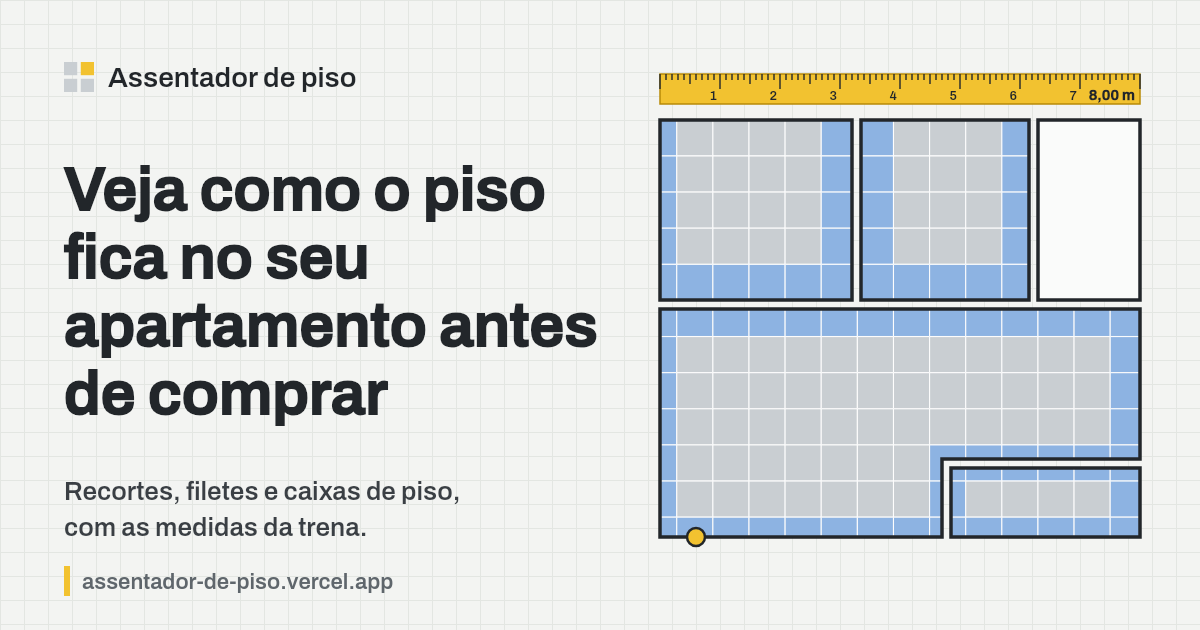
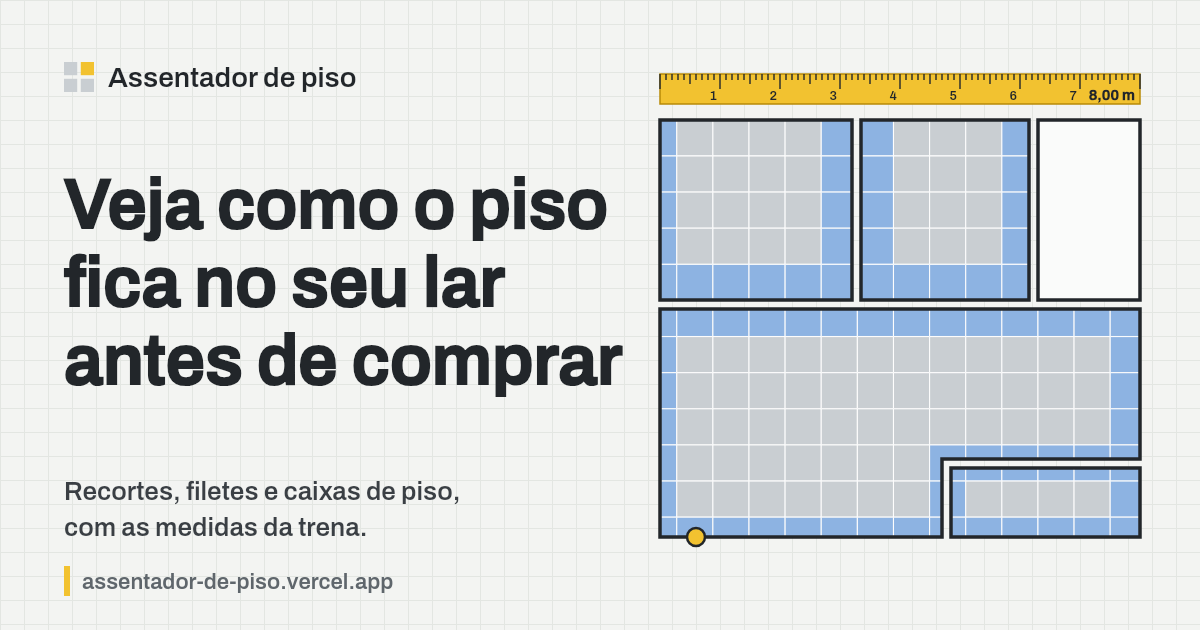
feat: textos falam em lar em vez de apartamento (tela inicial, exemplo, prévia do link)

Changed region(s): [[0.0308, 0.2714, 0.5242, 0.6937]]

diff --git a/index.html b/index.html
@@ -6,7 +6,7 @@
     <title>Assentador de Piso</title>
     <meta
       name="description"
-      content="Desenhe a planta com as medidas da trena ou envie o PDF e veja como o piso fica no seu apartamento: cada recorte, onde caem os filetes e quantas caixas comprar."
+      content="Desenhe a planta com as medidas da trena ou envie o PDF e veja como o piso fica no seu lar: cada recorte, onde caem os filetes e quantas caixas comprar."
     />
     <meta name="theme-color" content="#f3f4f2" />
     <link rel="icon" href="/favicon.svg" type="image/svg+xml" />
@@ -19,12 +19,12 @@
     <meta property="og:title" content="Assentador de piso" />
     <meta
       property="og:description"
-      content="Veja como o piso fica no seu apartamento antes de comprar: recortes, filetes e quantas caixas, com as medidas da trena."
+      content="Veja como o piso fica no seu lar antes de comprar: recortes, filetes e quantas caixas, com as medidas da trena."
     />
-    <meta property="og:image" content="https://assentador-de-piso.vercel.app/og.png" />
+    <meta property="og:image" content="https://assentador-de-piso.vercel.app/og.png?v=2" />
     <meta property="og:image:width" content="1200" />
     <meta property="og:image:height" content="630" />
-    <meta property="og:image:alt" content="Planta de um apartamento com o piso assentado e os recortes em azul" />
+    <meta property="og:image:alt" content="Planta de um lar com o piso assentado e os recortes em azul" />
     <meta name="twitter:card" content="summary_large_image" />
   </head>
   <body>

diff --git a/src/ui/StepUpload.tsx b/src/ui/StepUpload.tsx
@@ -79,10 +79,10 @@ export default function StepUpload({ onPlanReady }: Props) {
       }}
     >
       <section className="welcome-copy">
-        <h1 className="welcome-title">Veja como o piso fica no seu apartamento antes de comprar</h1>
+        <h1 className="welcome-title">Veja como o piso fica no seu lar antes de comprar</h1>
         <p className="welcome-lede">
-          Desenhe a planta com as medidas da trena ou envie o PDF do apartamento. O app mostra cada recorte, onde caem
-          os filetes e quantas caixas comprar, e deixa você montar do seu jeito.
+          Desenhe a planta do seu lar com as medidas da trena ou envie o PDF. O app mostra cada recorte, onde caem os
+          filetes e quantas caixas comprar, e deixa você montar do seu jeito.
         </p>
 
         {pdf ? (
@@ -106,7 +106,7 @@ export default function StepUpload({ onPlanReady }: Props) {
               </button>
             )}
             <button className={`btn btn-lg${hasPlan ? '' : ' btn-primary'}`} disabled={!!busy} onClick={() => void openSample()}>
-              Ver um apartamento de exemplo
+              Ver um lar de exemplo
             </button>
             <div className="welcome-pair">
               <button className="btn btn-lg" disabled={!!busy} onClick={startDrawing}>

diff --git a/src/ui/HeroPlan.tsx b/src/ui/HeroPlan.tsx
@@ -13,8 +13,8 @@ const LAY_MS = 1700;
 const TAPE = 46;
 
 /**
- * Apartamento de exemplo com o piso calculado pelo próprio app. As peças aparecem a partir da
- * porta de entrada, como numa obra; uma trena mede a largura do apartamento.
+ * Lar de exemplo com o piso calculado pelo próprio app. As peças aparecem a partir da porta de
+ * entrada, como numa obra; uma trena mede a largura da planta.
  */
 export default function HeroPlan() {
   const { project, rooms, result } = useMemo(() => {
@@ -34,7 +34,7 @@ export default function HeroPlan() {
 
   return (
     <figure className="hero-plan">
-      <svg viewBox={`${vb.x} ${vb.y} ${vb.w} ${vb.h}`} role="img" aria-label="Apartamento de exemplo com o piso assentado a partir da porta">
+      <svg viewBox={`${vb.x} ${vb.y} ${vb.w} ${vb.h}`} role="img" aria-label="Lar de exemplo com o piso assentado a partir da porta">
         <Tape x={b.x} y={b.y - TAPE - 14} w={b.w} />
         {project.rooms
           .filter((r) => !r.receivesTile)

diff --git a/scripts/make-og.ts b/scripts/make-og.ts
@@ -1,6 +1,6 @@
 /**
  * Gera a imagem de prévia do link (public/og.png, 1200 × 630, a que aparece no WhatsApp) e os
- * ícones (public/favicon.svg, public/apple-touch-icon.png) a partir do apartamento de exemplo.
+ * ícones (public/favicon.svg, public/apple-touch-icon.png) a partir do lar de exemplo.
  *
  *   npx vite-node scripts/make-og.ts
  */
@@ -71,8 +71,8 @@ function og() {
   g.fillStyle = C.grafite;
   g.font = `700 28px ${FONT}`;
   g.fillText('Assentador de piso', 108, 87);
-  g.font = `800 62px ${FONT}`;
-  ['Veja como o piso', 'fica no seu', 'apartamento antes', 'de comprar'].forEach((l, i) => g.fillText(l, 64, 210 + i * 68));
+  g.font = `800 70px ${FONT}`;
+  ['Veja como o piso', 'fica no seu lar', 'antes de comprar'].forEach((l, i) => g.fillText(l, 64, 228 + i * 78));
   g.fillStyle = '#3a3f44';
   g.font = `400 26px ${FONT}`;
   g.fillText('Recortes, filetes e caixas de piso,', 64, 500);

diff --git a/src/ui/SampleNotice.tsx b/src/ui/SampleNotice.tsx
@@ -2,14 +2,14 @@ import { isSample } from '../sample';
 import { useProject } from '../store/project';
 import { emptyProject } from '../types';
 
-/** Aviso no topo do painel enquanto a pessoa explora o apartamento de exemplo. */
+/** Aviso no topo do painel enquanto a pessoa explora o lar de exemplo. */
 export default function SampleNotice() {
   const sample = useProject((s) => isSample(s.project));
   if (!sample) return null;
   return (
     <div className="sample-notice" role="note">
       <p>
-        <strong>Apartamento de exemplo.</strong> Mexa à vontade: escolha por onde começar, troque o encaixe, veja em 3D.
+        <strong>Lar de exemplo.</strong> Mexa à vontade: escolha por onde começar, troque o encaixe, veja em 3D.
       </p>
       <button className="btn btn-sm btn-primary" onClick={() => void useProject.getState().replaceProject(emptyProject(), null)}>
         Fazer o meu

diff --git a/src/sample.ts b/src/sample.ts
@@ -2,7 +2,7 @@ import { rectRing } from './editor/drawing';
 import type { Point, Ring } from './geometry/types';
 import { drawnPlan, emptyProject, type Project, type Room } from './types';
 
-/** Nome da "planta" do apartamento de exemplo; o Resultado usa para mostrar o aviso de exemplo. */
+/** Nome da "planta" do lar de exemplo; o Resultado usa para mostrar o aviso de exemplo. */
 export const SAMPLE_SOURCE = 'Exemplo';
 
 /**
@@ -25,7 +25,7 @@ const room = (id: string, name: string, ring: Ring, receivesTile = true): Room =
 });
 
 /**
- * Apartamento de exemplo, desenhado em cm com paredes de 15 cm: dois quartos, sala integrada
+ * Lar de exemplo, desenhado em cm com paredes de 15 cm: dois quartos, sala integrada
  * com a cozinha (em L), área de serviço e banheiro (com outro piso, não recebe este).
  */
 export function sampleProject(): Project {

diff --git a/src/ui/StepTile.tsx b/src/ui/StepTile.tsx
@@ -96,7 +96,7 @@ export default function StepTile() {
             <legend>Grade</legend>
             <div className="segmented">
               <button aria-pressed={layout.gridMode === 'global'} onClick={() => setLayout({ gridMode: 'global' })}>
-                Contínua no apartamento
+                Contínua em todo o lar
               </button>
               <button aria-pressed={layout.gridMode === 'perRoom'} onClick={() => setLayout({ gridMode: 'perRoom' })}>
                 Uma por cômodo

diff --git a/src/sample.test.ts b/src/sample.test.ts
@@ -4,7 +4,7 @@ import { canAdvance, roomsInCm } from './store/issues';
 import { solveLayout } from './tiling/engine';
 import { emptyProject } from './types';
 
-describe('apartamento de exemplo', () => {
+describe('lar de exemplo', () => {
   it('passa direto por todas as etapas', () => {
     const p = sampleProject();
     expect([1, 2, 3].map((s) => canAdvance(p, s as 1 | 2 | 3).ok)).toEqual([true, true, true]);

diff --git a/README.md b/README.md
@@ -1,6 +1,6 @@
 # Assentador de piso
 
-App web para ver, antes da obra, como o piso vai ficar no apartamento: peças inteiras,
+App web para ver, antes da obra, como o piso vai ficar no seu lar: peças inteiras,
 recortes com medida, filetes, sobras reaproveitadas e quantas caixas comprar. A planta entra
 por PDF ou imagem (com leitura automática dos cômodos) ou é desenhada no próprio app,
 digitando as medidas das paredes. Tudo roda no navegador; a planta não sai do computador.
@@ -14,8 +14,8 @@ npm run dev
 
 Abra o endereço que aparecer (normalmente http://localhost:5173).
 
-Para testar sem planta própria, toque em "Ver um apartamento de exemplo" na tela inicial,
-escolha "Desenhar minha planta", ou envie `public/exemplo-planta.png` (apartamento de 10 × 8 m,
+Para testar sem planta própria, toque em "Ver um lar de exemplo" na tela inicial,
+escolha "Desenhar minha planta", ou envie `public/exemplo-planta.png` (planta de 10 × 8 m,
 escala de 2 px/cm, sem cotas escritas: calibre com a parede externa de 10 m).
 
 ## Como usar
